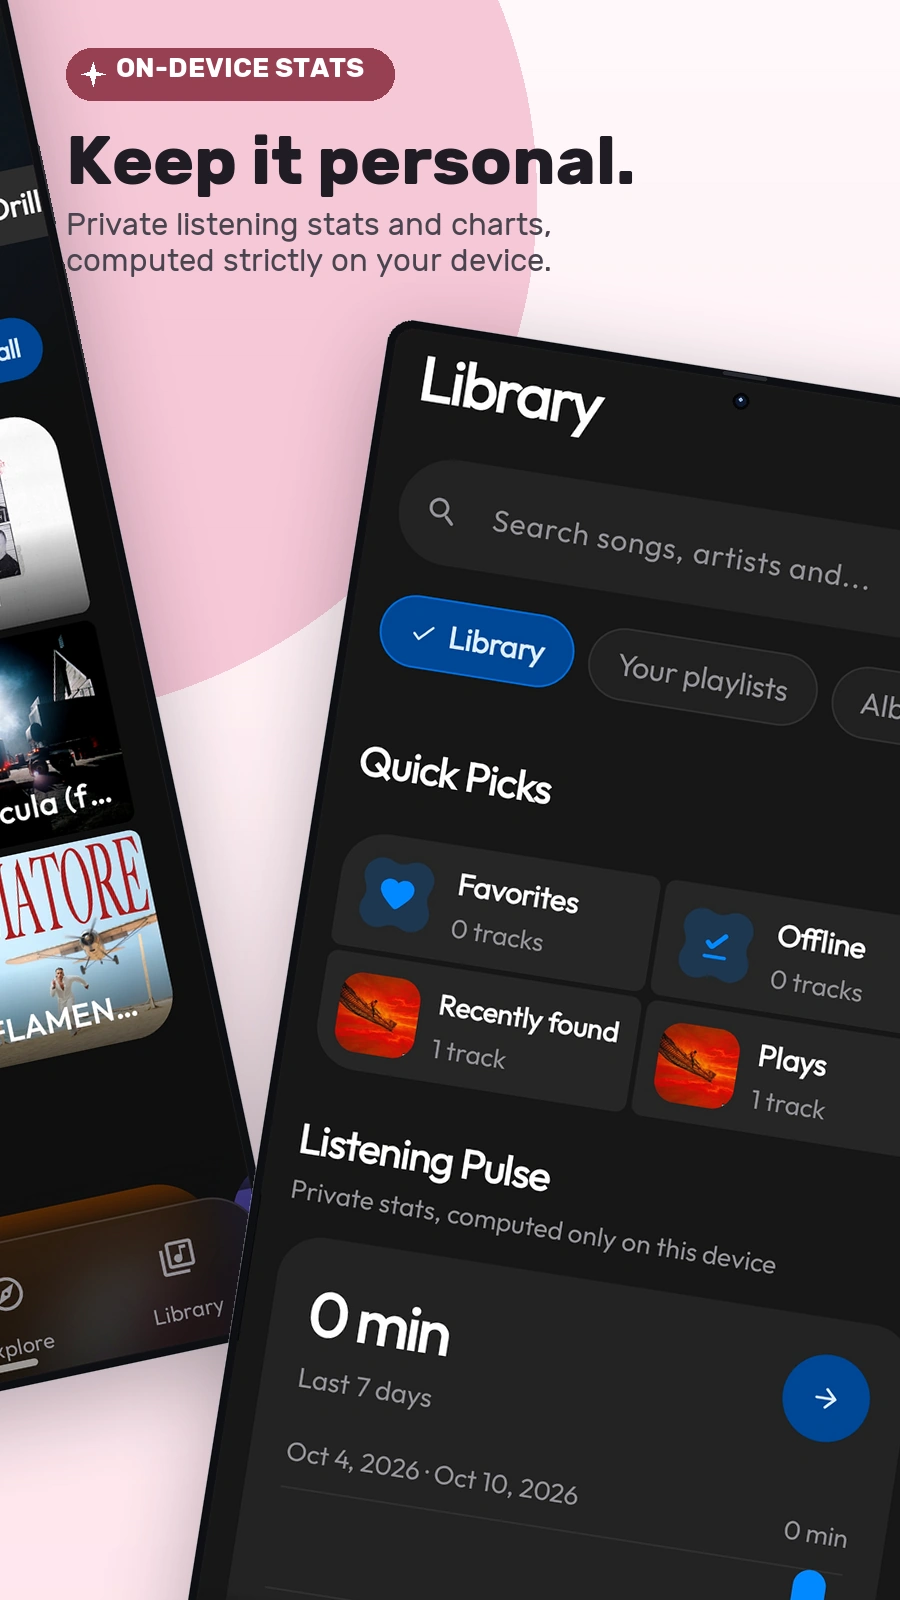
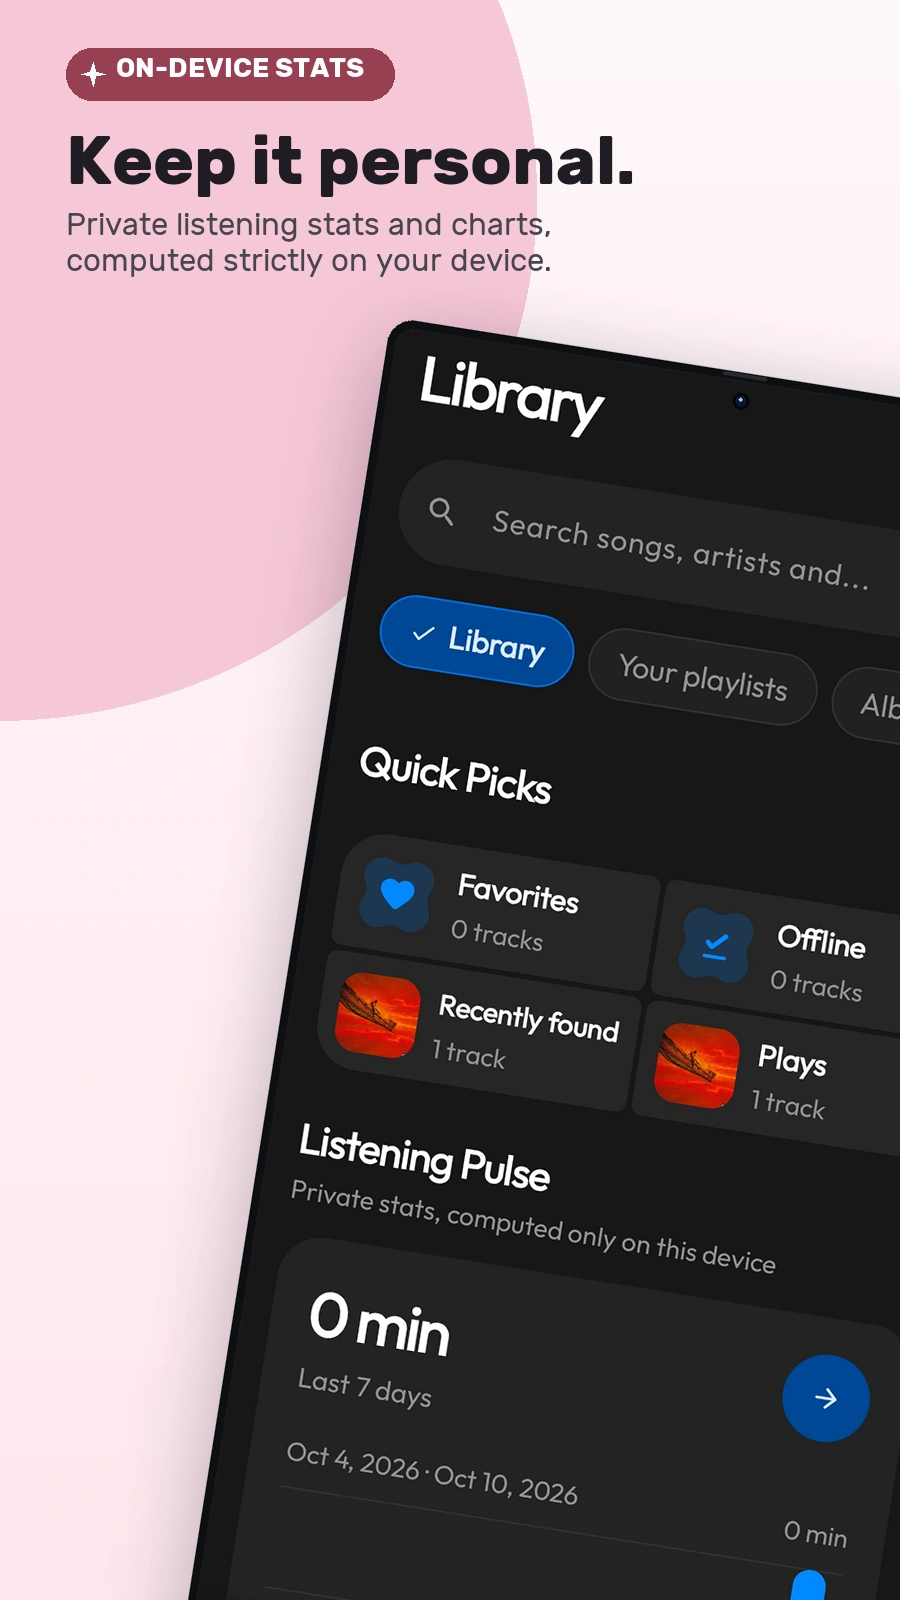
docs: refine orbit showcase crop

Changed region(s): [[0.0, 0.0, 0.3111, 0.9062]]

diff --git a/scripts/generate_showcase_assets.py b/scripts/generate_showcase_assets.py
@@ -140,6 +140,15 @@ M3_PAIR_PALETTES = [
     ((255, 248, 243), (255, 220, 194), (139, 80, 0), (246, 195, 145)),
 ]
 
+M3_PHONE_OVERRIDES = {
+    "Screenshot_20261012_193022_LEVYRA.jpg": {
+        "target_w": 590,
+        "x": 70,
+        "y": -70,
+        "angle": 8,
+    },
+}
+
 M3_HERO_SPECS = [
     ("Screenshot_20260926_171253_LEVYRA.jpg", "ZERO ADS • NATIVE PLAY", "Pure listening.",
      "Zero ads, zero accounts.\nStream and store locally on your device.",
@@ -211,11 +220,13 @@ def draw_m3_copy(card, spec, placement, primary, surface):
 def paste_cut_phone(canvas, spec, card_index, placement, gutter, angle):
     card_w = 900
     card_left = card_index * (card_w + gutter)
+    phone_override = M3_PHONE_OVERRIDES.get(spec[0], {})
     screenshot_path = resolve_screenshot_path(spec[0])
     if not screenshot_path:
         raise FileNotFoundError(f"Missing showcase screenshot: {spec[0]}")
     with Image.open(screenshot_path) as source:
-        phone = create_s26_ultra_mockup(source, target_w=700)
+        phone = create_s26_ultra_mockup(source, target_w=phone_override.get("target_w", 700))
+    angle = phone_override.get("angle", angle)
     rotated = phone.rotate(angle, resample=Image.Resampling.BICUBIC, expand=True)
     shadow, pad = create_m3_shadow(rotated, blur=42, offset_y=24)
 
@@ -225,6 +236,8 @@ def paste_cut_phone(canvas, spec, card_index, placement, gutter, angle):
     else:
         x = card_left + (-40 if card_index == 0 else 160)
         y = 315
+    x = card_left + phone_override.get("x", x - card_left)
+    y = phone_override.get("y", y)
     canvas.paste(shadow, (x - pad, y - pad), shadow)
     canvas.paste(rotated, (x, y), rotated)
 

diff --git a/README.md b/README.md
@@ -128,7 +128,7 @@ Enhanced Audio is on by default and can be turned off in Audio Settings. Technic
   <a href="docs/assets/showcase/cards/01_home.webp"><img src="docs/assets/showcase/cards/01_home.webp?v=m3-expressive-cut-v7" width="200" alt="Levyra home and personalized radio" /></a><a href="docs/assets/showcase/cards/02_stay_with_the_song.webp"><img src="docs/assets/showcase/cards/02_stay_with_the_song.webp?v=m3-expressive-cut-v7" width="200" alt="Levyra offline downloads with local audio files, artwork, and metadata" /></a><a href="docs/assets/showcase/cards/03_now_playing.webp"><img src="docs/assets/showcase/cards/03_now_playing.webp?v=m3-expressive-cut-v7" width="200" alt="Levyra synchronized lyrics" /></a><a href="docs/assets/showcase/cards/04_player_deck.webp"><img src="docs/assets/showcase/cards/04_player_deck.webp?v=m3-expressive-cut-v8" width="200" alt="Levyra customizable player decks" /></a><br>
   <a href="docs/assets/showcase/cards/05_explore_stage.webp"><img src="docs/assets/showcase/cards/05_explore_stage.webp?v=m3-expressive-cut-v7" width="200" alt="Levyra explore and fresh currents" /></a><a href="docs/assets/showcase/cards/06_levyra_mix_stage.webp"><img src="docs/assets/showcase/cards/06_levyra_mix_stage.webp?v=m3-expressive-cut-v7" width="200" alt="Levyra custom mix and live radio" /></a><a href="docs/assets/showcase/cards/07_genres.webp"><img src="docs/assets/showcase/cards/07_genres.webp?v=m3-expressive-cut-v7" width="200" alt="Levyra moods and genres" /></a><a href="docs/assets/showcase/cards/08_audio_tuning.webp"><img src="docs/assets/showcase/cards/08_audio_tuning.webp?v=m3-expressive-cut-v7" width="200" alt="Levyra audio tuning and playback engine" /></a><br>
   <a href="docs/assets/showcase/cards/09_album.webp"><img src="docs/assets/showcase/cards/09_album.webp?v=m3-expressive-cut-v7" width="200" alt="Levyra album details and tracklist" /></a><a href="docs/assets/showcase/cards/10_search.webp"><img src="docs/assets/showcase/cards/10_search.webp?v=m3-expressive-cut-v7" width="200" alt="Levyra instant search and suggestions" /></a><a href="docs/assets/showcase/cards/11_collections.webp"><img src="docs/assets/showcase/cards/11_collections.webp?v=m3-expressive-cut-v7" width="200" alt="Levyra curated collections and playlists" /></a><a href="docs/assets/showcase/cards/12_listening_rhythm.webp"><img src="docs/assets/showcase/cards/12_listening_rhythm.webp?v=m3-expressive-cut-v7" width="200" alt="Levyra listening rhythm and habits" /></a><br>
-  <a href="docs/assets/showcase/cards/13_your_orbit.webp"><img src="docs/assets/showcase/cards/13_your_orbit.webp?v=m3-expressive-cut-v8" width="200" alt="Levyra orbit and favorite tracks" /></a><a href="docs/assets/showcase/cards/14_listening_pulse.webp"><img src="docs/assets/showcase/cards/14_listening_pulse.webp?v=m3-expressive-cut-v8" width="200" alt="Levyra private listening stats and charts" /></a><a href="docs/assets/showcase/cards/15_artist_playlists.webp"><img src="docs/assets/showcase/cards/15_artist_playlists.webp?v=m3-expressive-cut-v7" width="200" alt="Levyra artist playlists and collections" /></a><a href="docs/assets/showcase/cards/16_settings_vault.webp"><img src="docs/assets/showcase/cards/16_settings_vault.webp?v=m3-expressive-cut-v7" width="200" alt="Levyra settings and local vault backups" /></a><br>
+  <a href="docs/assets/showcase/cards/13_your_orbit.webp"><img src="docs/assets/showcase/cards/13_your_orbit.webp?v=m3-expressive-cut-v9" width="200" alt="Levyra orbit and favorite tracks" /></a><a href="docs/assets/showcase/cards/14_listening_pulse.webp"><img src="docs/assets/showcase/cards/14_listening_pulse.webp?v=m3-expressive-cut-v9" width="200" alt="Levyra private listening stats and charts" /></a><a href="docs/assets/showcase/cards/15_artist_playlists.webp"><img src="docs/assets/showcase/cards/15_artist_playlists.webp?v=m3-expressive-cut-v7" width="200" alt="Levyra artist playlists and collections" /></a><a href="docs/assets/showcase/cards/16_settings_vault.webp"><img src="docs/assets/showcase/cards/16_settings_vault.webp?v=m3-expressive-cut-v7" width="200" alt="Levyra settings and local vault backups" /></a><br>
   <a href="docs/assets/showcase/cards/17_new_releases.webp"><img src="docs/assets/showcase/cards/17_new_releases.webp?v=m3-expressive-cut-v7" width="200" alt="Levyra new releases" /></a><a href="docs/assets/showcase/cards/18_artist_profile.webp"><img src="docs/assets/showcase/cards/18_artist_profile.webp?v=m3-expressive-cut-v7" width="200" alt="Levyra artist profile and discography" /></a><a href="docs/assets/showcase/cards/19_top_50.webp"><img src="docs/assets/showcase/cards/19_top_50.webp?v=m3-expressive-cut-v7" width="200" alt="Levyra Top 50 charts" /></a><a href="docs/assets/showcase/cards/20_levyra_jam.webp"><img src="docs/assets/showcase/cards/20_levyra_jam.webp?v=m3-expressive-cut-v7" width="200" alt="Levyra Jam collaborative listening on local Wi-Fi" /></a>
 </p>
 
